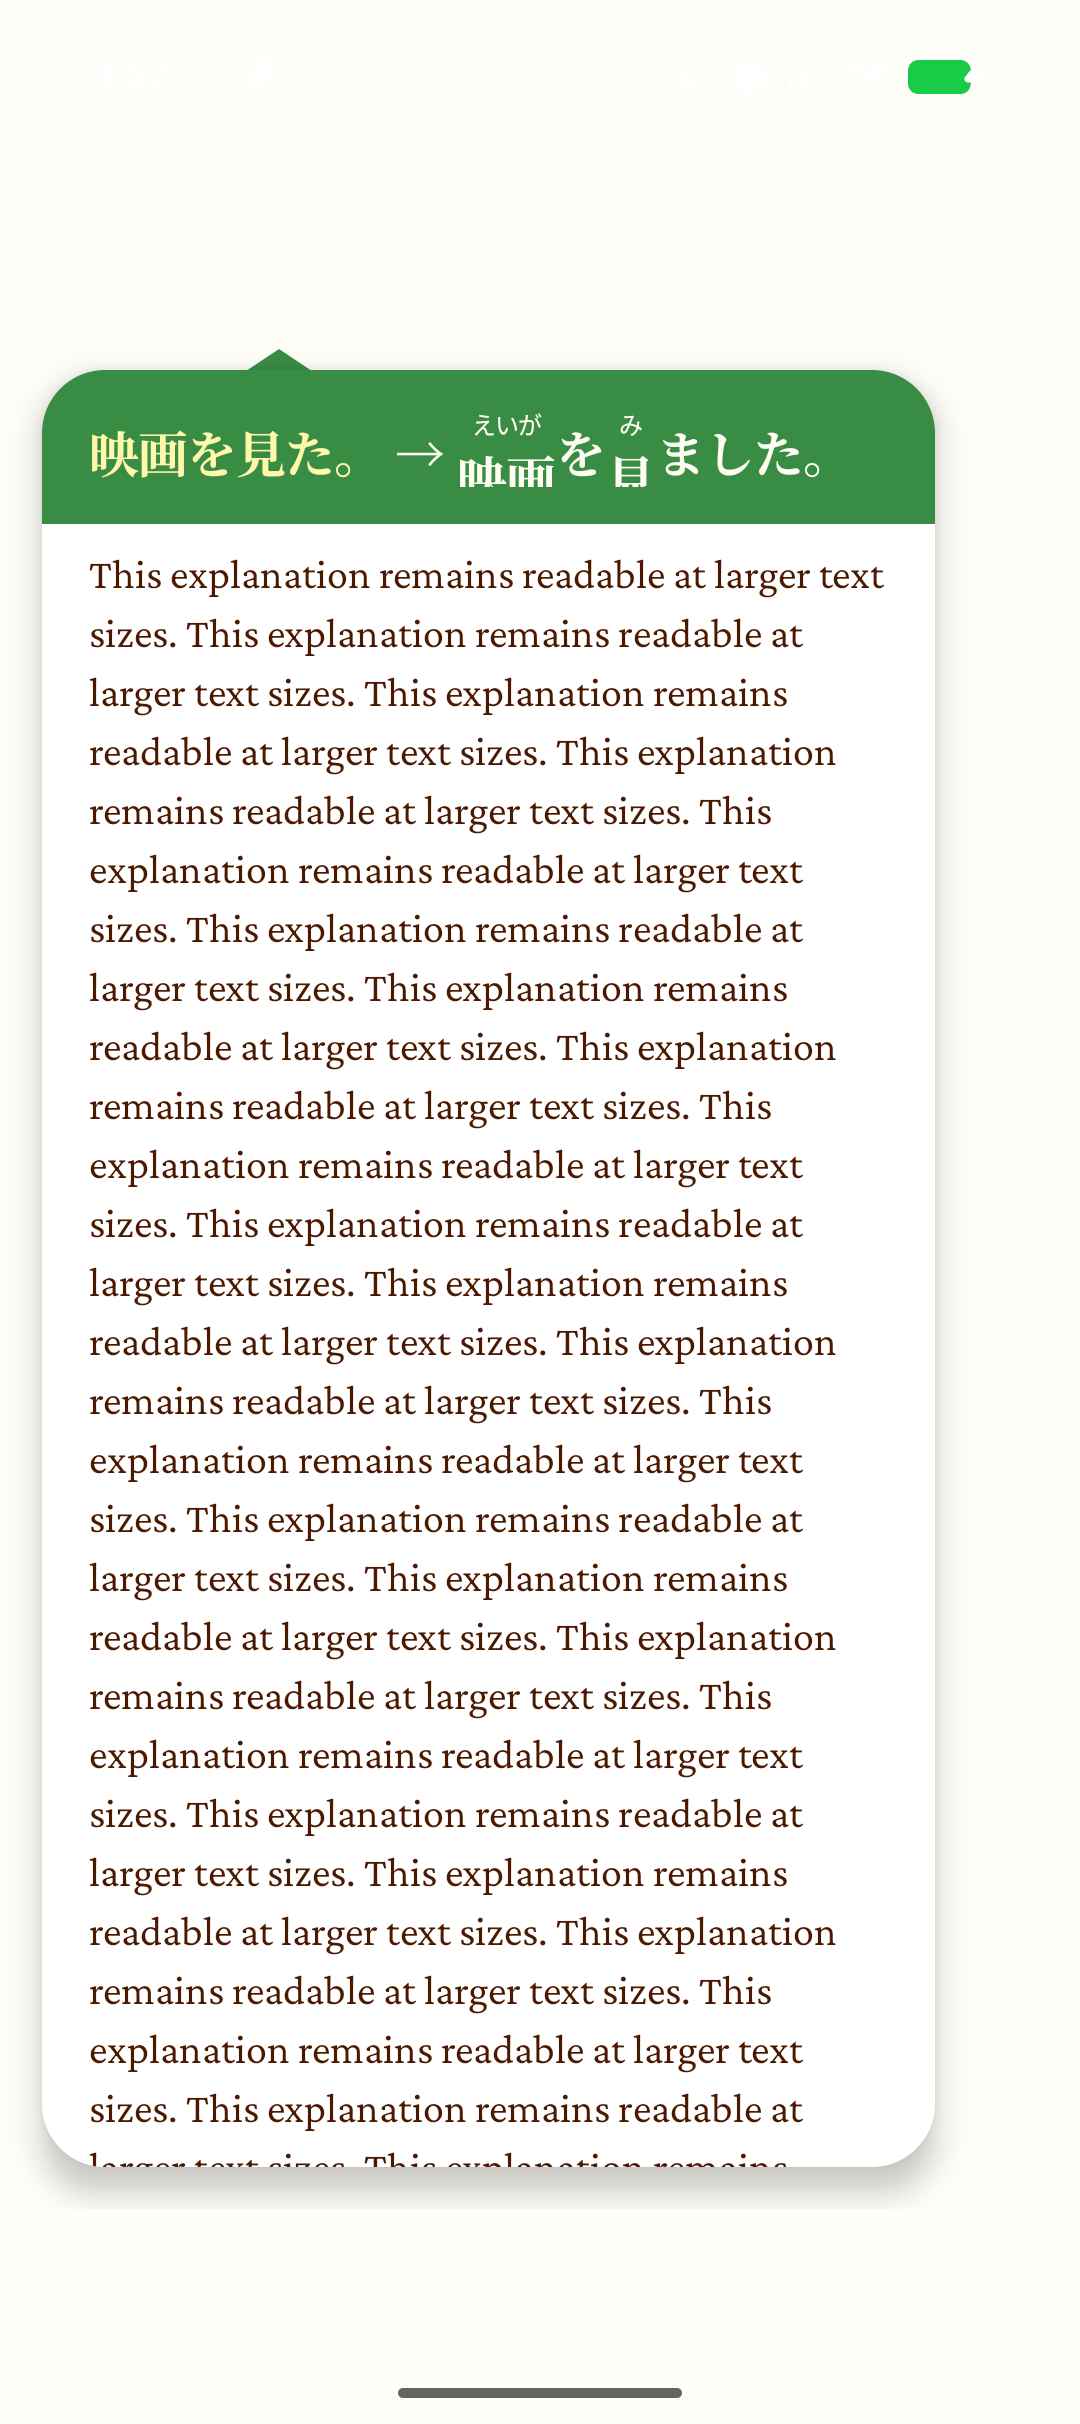
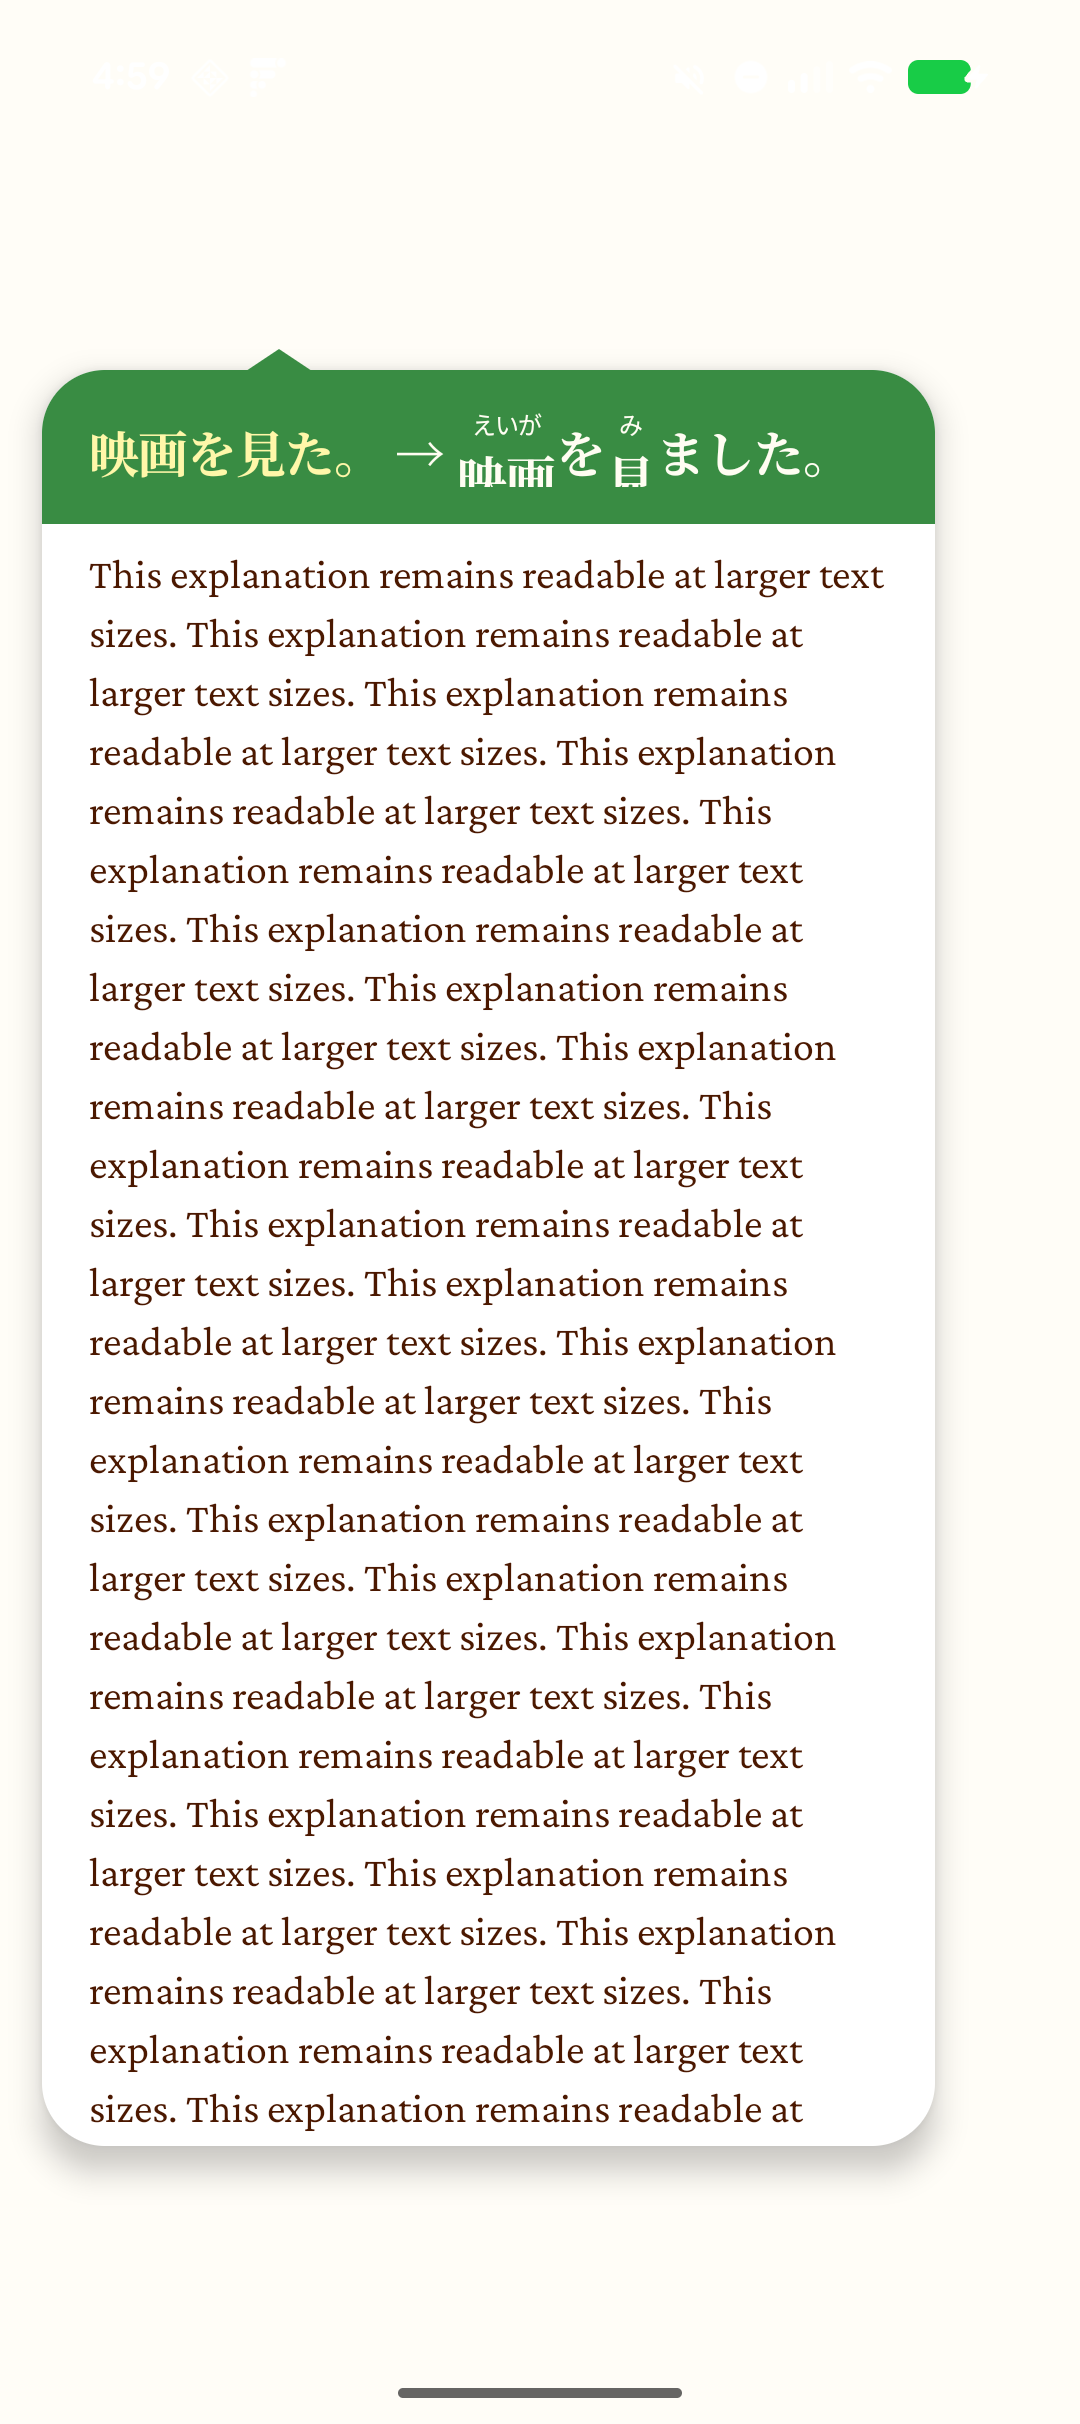
Harden popup placement and large-text editor layout

Changed region(s): [[0.0306, 0.8663, 0.8556, 0.9282]]

diff --git a/app/src/androidTest/java/com/cdcg/convolab/journal/feedback/FeedbackUiTest.kt b/app/src/androidTest/java/com/cdcg/convolab/journal/feedback/FeedbackUiTest.kt
@@ -6,6 +6,9 @@ import androidx.activity.ComponentActivity
 import androidx.activity.enableEdgeToEdge
 import androidx.compose.runtime.collectAsState
 import androidx.compose.runtime.getValue
+import androidx.compose.runtime.CompositionLocalProvider
+import androidx.compose.ui.platform.LocalDensity
+import androidx.compose.ui.unit.Density
 import androidx.compose.ui.test.*
 import androidx.compose.ui.test.junit4.v2.createAndroidComposeRule
 import androidx.test.ext.junit.runners.AndroidJUnit4
@@ -73,6 +76,22 @@ class FeedbackUiTest {
         assertEquals(text, workflow.state.value.snapshot?.analysis?.finalText)
     }
 
+    @Test fun finalEditorSupportsDoubleTextSizeWithKeyboardAndLongText() {
+        launchNotebook(submit = false, scale = 2f)
+        compose.onNodeWithText("Final").performClick()
+        compose.onNodeWithContentDescription("More journal options").performScrollTo().performClick()
+        compose.onNodeWithText("Edit final").performClick()
+        compose.onAllNodesWithTag("final-editor").assertCountEquals(1)
+        compose.onNodeWithTag("final-editor").performClick().performTextReplacement("友達と映画を見ました。\n".repeat(18))
+        assertAboveKeyboard("final-save")
+        compose.onNodeWithText("Cancel").assertIsDisplayed()
+        val editor = compose.onNodeWithTag("final-editor").fetchSemanticsNode().boundsInWindow
+        assertTrue("Large type must retain visible writing space", editor.height > 40)
+        screenshot("feedback-final-editor-double-text")
+        compose.onNodeWithText("Cancel").performClick()
+        compose.waitUntil(5_000) { workflow.state.value.finalEdit == null }
+    }
+
     @Test fun earlierPendingTextRequiresConfirmationBeforeArchiveAndContinue() {
         val pending = WorkflowSnapshot(JournalId(entry.id), entry.version + 1,
             pendingFinalEdit = FinalEdit(JournalIds.newId(), 3, "残しておく修正。"))
@@ -88,7 +107,7 @@ class FeedbackUiTest {
         compose.onNodeWithText("Final").performScrollTo().assertIsDisplayed()
     }
 
-    private fun launchNotebook(submit: Boolean, saved: WorkflowSnapshot? = null) {
+    private fun launchNotebook(submit: Boolean, saved: WorkflowSnapshot? = null, scale: Float = 1f) {
         InstrumentationRegistry.getInstrumentation().runOnMainSync {
             // Match MainActivity: older Android does not force edge-to-edge on test hosts.
             compose.activity.enableEdgeToEdge()
@@ -100,7 +119,10 @@ class FeedbackUiTest {
         compose.setContent {
             val state by notebook.state.collectAsState()
             val feedback by workflow.state.collectAsState()
-            ConvoLabTheme { NotebookScreen(state, notebook, NotebookPanels(FeedbackPresentation(feedback, workflow))) { AccountMenu("Naomi", {}, null) } }
+            val density = LocalDensity.current
+            CompositionLocalProvider(LocalDensity provides Density(density.density, scale)) {
+                ConvoLabTheme { NotebookScreen(state, notebook, NotebookPanels(FeedbackPresentation(feedback, workflow))) { AccountMenu("Naomi", {}, null) } }
+            }
         }
         compose.runOnIdle { notebook.start(); if (submit) workflow.submit(entry) else workflow.open(entry) }
         compose.waitUntil(5_000) { !notebook.state.value.loading && !workflow.state.value.busy }

diff --git a/app/src/main/java/com/cdcg/convolab/journal/feedback/CorrectionPopover.kt b/app/src/main/java/com/cdcg/convolab/journal/feedback/CorrectionPopover.kt
@@ -33,21 +33,19 @@ import com.cdcg.convolab.ui.JournalStyle
 fun CorrectionPopover(segment: FeedbackSegment, anchor: Rect, dismiss: () -> Unit) {
     val density = LocalDensity.current
     val margin = with(density) { 16.dp.roundToPx() }
-    var pointer by remember { mutableStateOf(PopoverPointer()) }
-    val position = remember(anchor, margin) { CorrectionPosition(anchor, margin) { if (pointer != it) pointer = it } }
+    val pointer = remember { mutableStateOf(PopoverPointer()) }
+    val position = remember(anchor, margin) { CorrectionPosition(anchor, margin) { pointer.value = it } }
     val screen = LocalWindowInfo.current.containerSize
     val width = with(density) { screen.width.toDp() }
     val height = with(density) { screen.height.toDp() }
     Popup(popupPositionProvider = position, onDismissRequest = dismiss, properties = PopupProperties(focusable = true)) {
-        Column(Modifier.width(minOf(340.dp, width - 32.dp)).heightIn(max = height * .75f)
-            .testTag("correction-popover")) {
-            if (pointer.top) CorrectionPointer(pointer.x, if (segment.replacement != null) Color(0xFF398C43) else Color.White)
-            Column(Modifier.weight(1f, fill = false).shadow(7.dp, RoundedCornerShape(24.dp)).clip(RoundedCornerShape(24.dp))
+        Box(Modifier.width(minOf(340.dp, width - 32.dp)).heightIn(max = height * .75f).testTag("correction-popover")) {
+            Column(Modifier.padding(vertical = 8.dp).shadow(7.dp, RoundedCornerShape(24.dp)).clip(RoundedCornerShape(24.dp))
                 .background(Color.White).verticalScroll(rememberScrollState()).testTag("correction-scroll")) {
                 CorrectionPassage(segment)
                 CorrectionExplanation(segment)
             }
-            if (!pointer.top) CorrectionPointer(pointer.x, Color.White, false)
+            CorrectionPointer(pointer, segment.replacement != null, Modifier.matchParentSize())
         }
     }
 }
@@ -82,11 +80,15 @@ private fun CorrectionExplanation(segment: FeedbackSegment) {
 }
 
 @Composable
-private fun CorrectionPointer(x: Int, color: Color, top: Boolean = true) {
-    Canvas(Modifier.fillMaxWidth().height(8.dp)) {
-        val center = x.toFloat().coerceIn(36.dp.toPx(), size.width - 36.dp.toPx())
-        val edge = if (top) size.height else 0f
-        val tip = if (top) 0f else size.height
+private fun CorrectionPointer(placement: State<PopoverPointer>, edited: Boolean, modifier: Modifier) {
+    // Placement is consumed only during drawing: no composition/layout feedback loop.
+    // Both orientations use the same fixed padding, and layout finishes before this draw.
+    Canvas(modifier) {
+        val pointer = placement.value
+        val center = pointer.x.toFloat().coerceIn(36.dp.toPx(), size.width - 36.dp.toPx())
+        val edge = if (pointer.top) 8.dp.toPx() else size.height - 8.dp.toPx()
+        val tip = if (pointer.top) 0f else size.height
+        val color = if (pointer.top && edited) Color(0xFF398C43) else Color.White
         drawPath(Path().apply { moveTo(center - 12.dp.toPx(), edge); lineTo(center, tip); lineTo(center + 12.dp.toPx(), edge); close() }, color)
     }
 }

diff --git a/app/src/main/java/com/cdcg/convolab/ui/AccountMenu.kt b/app/src/main/java/com/cdcg/convolab/ui/AccountMenu.kt
@@ -4,6 +4,7 @@ import androidx.compose.foundation.layout.Box
 import androidx.compose.foundation.layout.padding
 import androidx.compose.material3.*
 import androidx.compose.runtime.*
+import androidx.compose.runtime.saveable.rememberSaveable
 import androidx.compose.ui.Modifier
 import androidx.compose.ui.semantics.contentDescription
 import androidx.compose.ui.semantics.semantics
@@ -18,15 +19,15 @@ val LocalTutorPicker = compositionLocalOf<(() -> Unit)?> { null }
 @Composable
 fun AccountMenu(name: String, signOut: () -> Unit, openTypingLab: (() -> Unit)?, settings: (() -> Unit)? = null) {
     var expanded by remember { mutableStateOf(false) }
-    var panel by remember { mutableStateOf<String?>(null) }
-    var logout by remember { mutableStateOf(false) }
+    var panel by rememberSaveable { mutableStateOf<String?>(null) }
+    var logout by rememberSaveable { mutableStateOf(false) }
     val tutor = LocalTutorPicker.current
     val navigationEnabled = LocalJournalNavigationEnabled.current
     Box {
         IconButton(onClick = { expanded = true }, modifier = Modifier.semantics { contentDescription = "Account menu" }) { AccountInitial(name) }
         PaperMenu(expanded, { expanded = false }) {
             PaperMenuGroup("Journal")
-            tutor?.let { PaperMenuItem("Tutor", JournalSymbol.Person) { expanded = false; it() } }
+            tutor?.let { PaperMenuItem("Tutor", JournalSymbol.Person, enabled = navigationEnabled) { expanded = false; it() } }
             PaperMenuItem("Appearance", JournalSymbol.Appearance) { expanded = false; panel = "Journal appearance" }
             PaperMenuItem("Keyboard", JournalSymbol.Keyboard) { expanded = false; panel = "How would you like to type?" }
             HorizontalDivider(Modifier.padding(horizontal = 12.dp, vertical = 8.dp))

diff --git a/app/src/main/java/com/cdcg/convolab/settings/SettingsScreen.kt b/app/src/main/java/com/cdcg/convolab/settings/SettingsScreen.kt
@@ -10,6 +10,7 @@ import androidx.compose.material3.*
 import androidx.compose.runtime.*
 import androidx.compose.runtime.saveable.rememberSaveable
 import androidx.compose.ui.Alignment
+import androidx.compose.ui.platform.LocalDensity
 import androidx.compose.ui.Modifier
 import androidx.compose.ui.semantics.*
 import androidx.compose.ui.unit.dp
@@ -115,6 +116,6 @@ private fun SettingsChapter(title: String, icon: JournalSymbol?, expanded: Strin
 fun AccountInitial(name: String, size: Int = 44) {
     Box(Modifier.size(size.dp).background(JournalStyle.Green, CircleShape).padding(3.dp).background(JournalBrand.Paper, CircleShape), contentAlignment = Alignment.Center) {
         Text(name.codePoints().findFirst().orElse(63).let { String(Character.toChars(it)).uppercase() },
-            fontFamily = JournalBrand.Anton, fontSize = (size * .6).sp, color = JournalBrand.Ink)
+            fontFamily = JournalBrand.Anton, fontSize = (size * .6 / LocalDensity.current.fontScale).sp, color = JournalBrand.Ink)
     }
 }

diff --git a/app/src/main/java/com/cdcg/convolab/journal/feedback/FinalEditSheet.kt b/app/src/main/java/com/cdcg/convolab/journal/feedback/FinalEditSheet.kt
@@ -87,7 +87,7 @@ private fun FinalEditActions(presentation: FeedbackPresentation) {
     val edit = presentation.state.finalEdit ?: return
     val controller = presentation.controller
     val input = LocalInputHost.current
-    Row(Modifier.fillMaxWidth(), horizontalArrangement = Arrangement.spacedBy(8.dp, androidx.compose.ui.Alignment.End)) {
+    FlowRow(Modifier.fillMaxWidth(), horizontalArrangement = Arrangement.spacedBy(8.dp, androidx.compose.ui.Alignment.End), verticalArrangement = Arrangement.spacedBy(4.dp)) {
         JournalDraftButton("Cancel", controller::dismissFinalEdit, style = DraftButtonStyle(enabled = !presentation.state.busy, filled = false))
         JournalDraftButton(if (presentation.state.busy) "Saving…" else "Save changes", action = { input?.finish(); controller.saveFinalEdit() },
             style = DraftButtonStyle(enabled = !presentation.state.busy && presentation.state.canRetry && edit.text.isNotBlank()),

diff --git a/docs/android-port/visual-parity.md b/docs/android-port/visual-parity.md
@@ -40,8 +40,10 @@ of scope. The typing engine and its performance settings are unchanged.
 - Pixel 10a / Android 16: the targeted UI suite covers authentication, account
   deletion, Settings/WaniKani, notebook navigation, feedback/final editing, tutor
   conversations, audio, appearance, and both keyboard modes: the final full run
-  passes all 32 UI tests (122 seconds), including the review fixes for long-entry
-  actions and emphasis formatting. PR emulator results are recorded in the PR.
+  passes all 32 UI tests (122 seconds), followed by 12/12 focused checks including
+  a new final-editor test at 2.0× text scale (33 distinct tests overall). These
+  cover long-entry actions, emphasis formatting, popover placement, and large-type
+  keyboard bounds. PR emulator results are recorded in the PR.
 - [Pixel screenshots](visual-parity-screenshots/README.md) include complete notebook
   screens and isolated component fixtures; the gallery labels the latter.
 - CodeScene MCP reviewed all 45 changed Kotlin files: no remaining findings.

diff --git a/docs/android-port/visual-parity-screenshots/README.md b/docs/android-port/visual-parity-screenshots/README.md
@@ -41,3 +41,4 @@ conversation captures exercise the containing layout and keyboard insets.
 | Large text with keyboard | [Screenshot](journal-large-text-keyboard.png) |
 | Built-in conversion with English keyboard | [Screenshot](journal-real-english-keyboard.png) |
 | Long draft after hiding keyboard | [Screenshot](notebook-long-keyboard-hidden.png) |
+| Final editor at double text size | [Screenshot](feedback-final-editor-double-text.png) |
